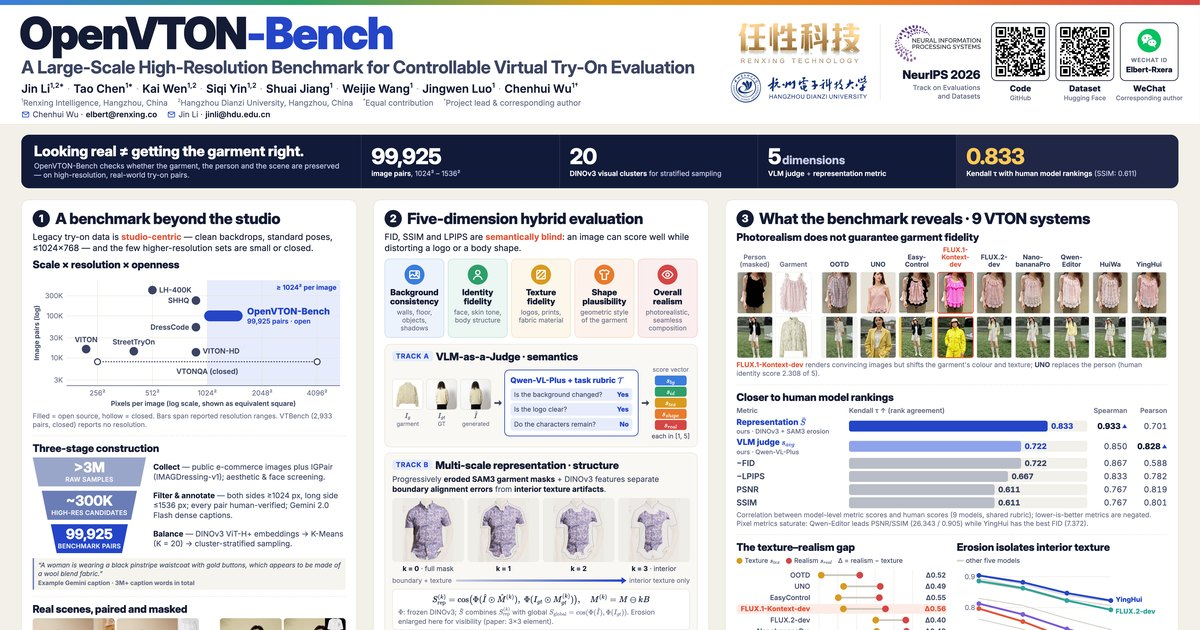
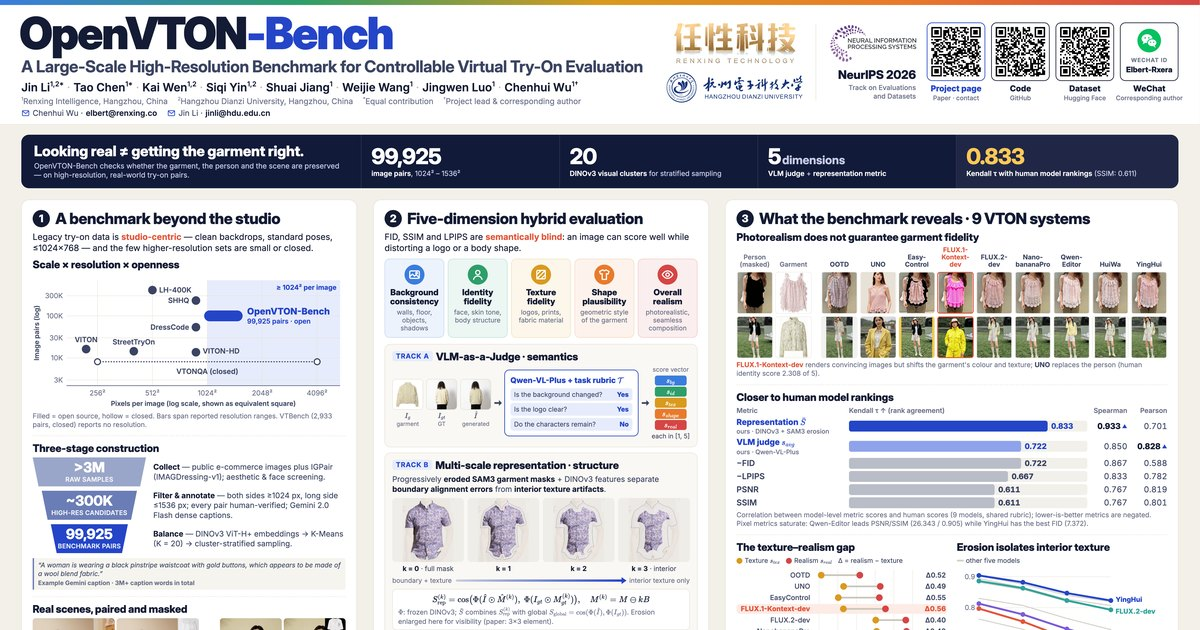
项目主页：Contact 区新增合作招募横幅
- 联系方式卡片前加入合作招募：积极寻求商务合作与研究合作，期待联系
- 桌面三栏、平板两栏、手机单栏自适应
- 按 tools/build_assets.py 的方式用新版海报（含项目主页二维码）重新生成 og.jpg 与 poster_thumb.webp

Changed region(s): [[0.0, 0.0302, 0.8325, 0.2111]]

diff --git a/static/css/style.css b/static/css/style.css
@@ -92,7 +92,7 @@ section.s { padding: 64px 0 8px; }
 .card + .card, .grid2 + .card, .card + .grid2, .grid2 + .grid2 { margin-top: 20px; }
 .grid2 { display: grid; grid-template-columns: 1fr 1fr; gap: 20px; }
 .grid2 > .card + .card { margin-top: 0; }
-.grid2 > *, .find > *, .contact > *, .stats > *, .erode > * { min-width: 0; }  /* let wide tables scroll instead of stretching the grid */
+.grid2 > *, .find > *, .contact > *, .collab > *, .stats > *, .erode > * { min-width: 0; }  /* let wide tables scroll instead of stretching the grid */
 .cap { font-size: 14px; color: var(--muted); margin-top: 12px; line-height: 1.5; }
 .cap b { color: var(--ink-2); }
 figure { margin: 0; }
@@ -194,6 +194,17 @@ svg.chart { width: 100%; height: auto; display: block; overflow: visible; font-f
 pre.bib { background: var(--navy); color: #E3E7F7; border-radius: 14px; padding: 20px 22px; overflow-x: auto; font: 13.5px/1.6 ui-monospace, "SF Mono", Menlo, monospace; margin: 0; }
 .copy { float: right; margin: -4px -6px 0 0; background: rgba(255,255,255,.12); color: #fff; border: 0; border-radius: 8px; padding: 6px 12px; font: 600 13px "Inter", sans-serif; cursor: pointer; }
 .copy:hover { background: rgba(255,255,255,.22); }
+.collab { display: grid; grid-template-columns: 1.5fr 1fr 1fr; gap: 14px; margin-bottom: 14px; padding: 28px; border-radius: 24px; color: #fff;
+  background: radial-gradient(120% 140% at 0% 0%, var(--accent) 0%, #1A2A78 45%, var(--navy) 80%); }
+.collab .msg { padding: 2px 10px 2px 2px; }
+.collab .eb { display: block; font-size: 12.5px; font-weight: 800; letter-spacing: .12em; text-transform: uppercase; color: #FFC857; margin-bottom: 10px; }
+.collab h3 { font-size: clamp(23px, 2.4vw, 28px); color: #fff; }
+.collab p { font-size: 15px; line-height: 1.55; color: #D2D7EE; margin: 0; }
+.collab .kind { background: rgba(255,255,255,.07); border: 1px solid rgba(255,255,255,.14); border-radius: 16px; padding: 18px 20px; }
+.collab .ic { width: 42px; height: 42px; border-radius: 12px; background: rgba(255,255,255,.12); display: grid; place-items: center; margin-bottom: 14px; }
+.collab .ic svg { width: 22px; height: 22px; fill: none; stroke: #FFC857; stroke-width: 2; stroke-linecap: round; stroke-linejoin: round; }
+.collab .kind b { display: block; font-family: var(--display); font-size: 17px; font-weight: 800; margin-bottom: 4px; }
+.collab .kind span { display: block; font-size: 14px; line-height: 1.45; color: #C5CBE6; }
 .contact { display: grid; grid-template-columns: repeat(3, 1fr); gap: 14px; }
 .contact .card { margin: 0 !important; padding: 18px 20px; }
 .contact b { display: block; font-size: 13px; color: var(--muted); text-transform: uppercase; letter-spacing: .06em; margin-bottom: 4px; }
@@ -211,12 +222,15 @@ footer .wrap { display: flex; flex-wrap: wrap; justify-content: space-between; g
   .band .st:nth-child(2), .band .st:nth-child(3) { border-bottom: 1px solid rgba(255,255,255,.14); }
   .dims { grid-template-columns: repeat(3, 1fr); }
   .find { grid-template-columns: 1fr 1fr; }
+  .collab { grid-template-columns: 1fr 1fr; }
+  .collab .msg { grid-column: 1 / -1; padding-right: 2px; }
   .qgrid { grid-template-columns: repeat(6, minmax(0, 1fr)); }
   .qgrid .sep { display: none; }
 }
 @media (max-width: 760px) {
   body { font-size: 16px; }
-  .grid2, .erode, .contact, .find { grid-template-columns: 1fr; }
+  .grid2, .erode, .contact, .collab, .find { grid-template-columns: 1fr; }
+  .collab { padding: 22px; }
   .stats { grid-template-columns: 1fr 1fr; }
   .dims { grid-template-columns: repeat(2, 1fr); }
   .qgrid { grid-template-columns: repeat(4, minmax(0, 1fr)); }

diff --git a/index.html b/index.html
@@ -306,6 +306,15 @@
   <div class="wrap">
     <div class="kicker">Contact</div>
     <h2 style="margin-bottom:18px">Get in touch</h2>
+    <div class="collab">
+      <div class="msg">
+        <span class="eb">Open to collaboration</span>
+        <h3>We are actively seeking collaborators</h3>
+        <p>Whether you have a business partnership or a research collaboration in mind, we look forward to hearing from you. Reach us through any of the channels below.</p>
+      </div>
+      <div class="kind"><div class="ic"><svg viewBox="0 0 24 24"><rect x="3" y="7" width="18" height="13" rx="2"/><path d="M9 7V5.5A1.5 1.5 0 0 1 10.5 4h3A1.5 1.5 0 0 1 15 5.5V7M3 13h18"/></svg></div><b>Business collaboration</b><span>Partnerships and joint projects with industry teams.</span></div>
+      <div class="kind"><div class="ic"><svg viewBox="0 0 24 24"><path d="M9 3h6M10 3v6.5L4.6 18.2A1.8 1.8 0 0 0 6.1 21h11.8a1.8 1.8 0 0 0 1.5-2.8L14 9.5V3M7.2 15h9.6"/></svg></div><b>Research collaboration</b><span>Joint research on virtual try-on, evaluation and datasets.</span></div>
+    </div>
     <div class="contact">
       <div class="card"><b>Corresponding author</b><a href="mailto:elbert@renxing.co">elbert@renxing.co</a><small>Chenhui Wu · Renxing Intelligence</small></div>
       <div class="card"><b>First author</b><a href="mailto:jinli@hdu.edu.cn">jinli@hdu.edu.cn</a><small>Jin Li · Hangzhou Dianzi University</small></div>
